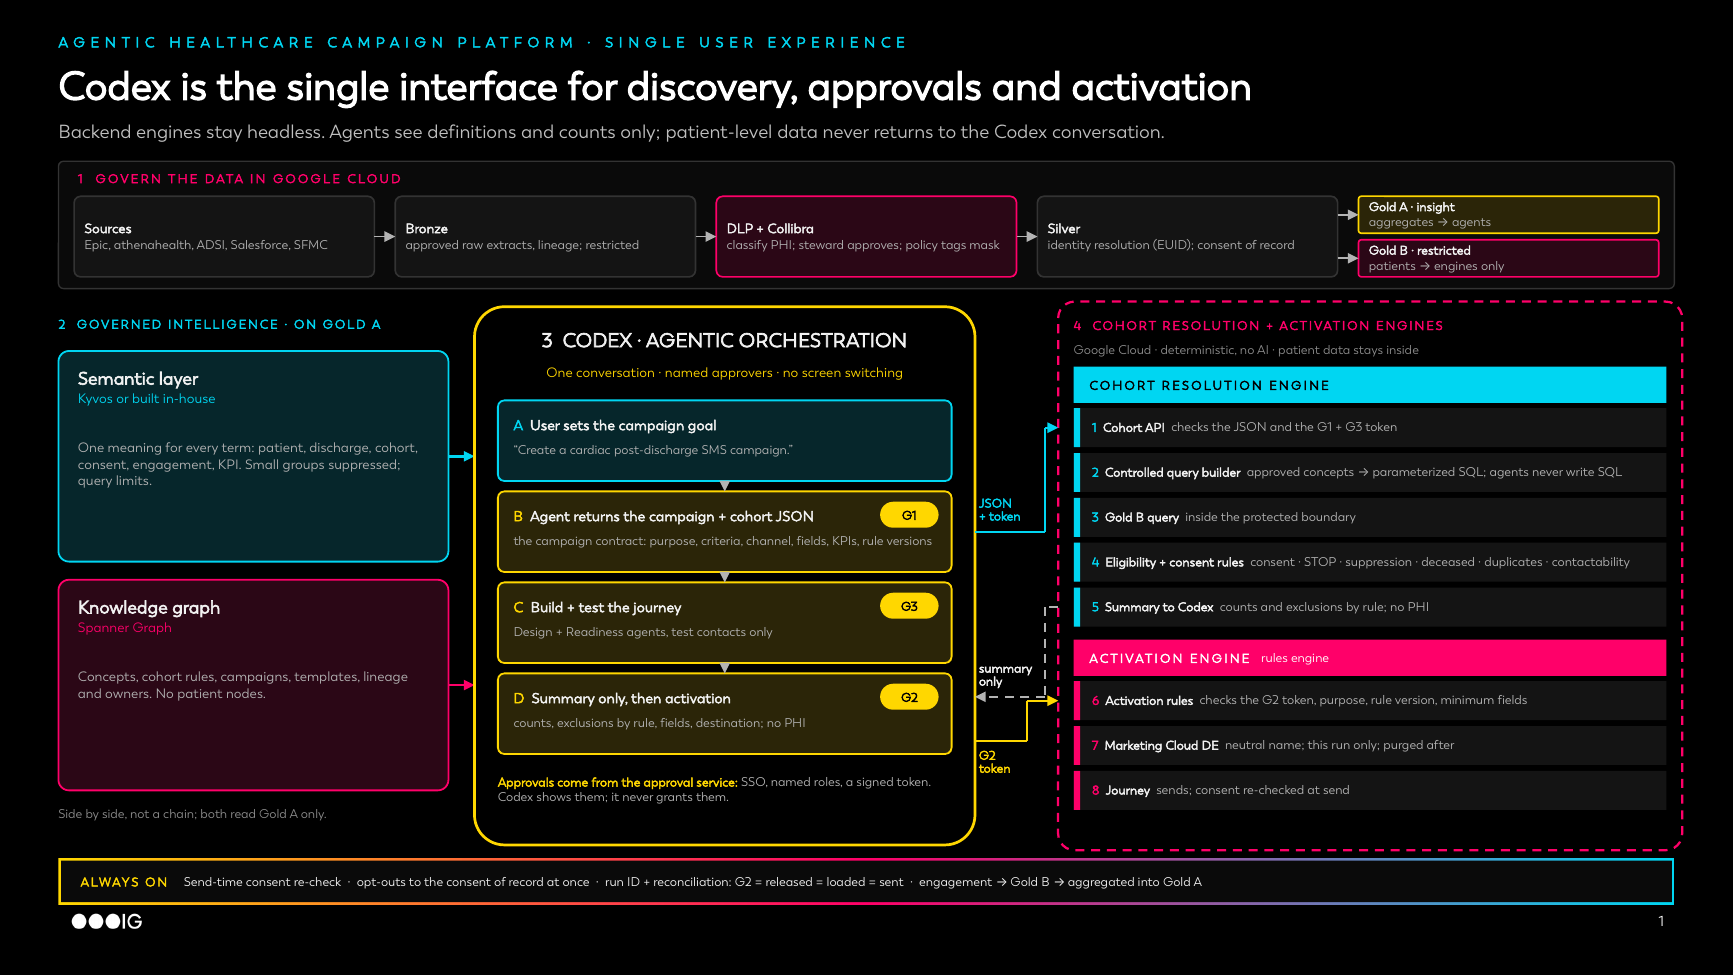
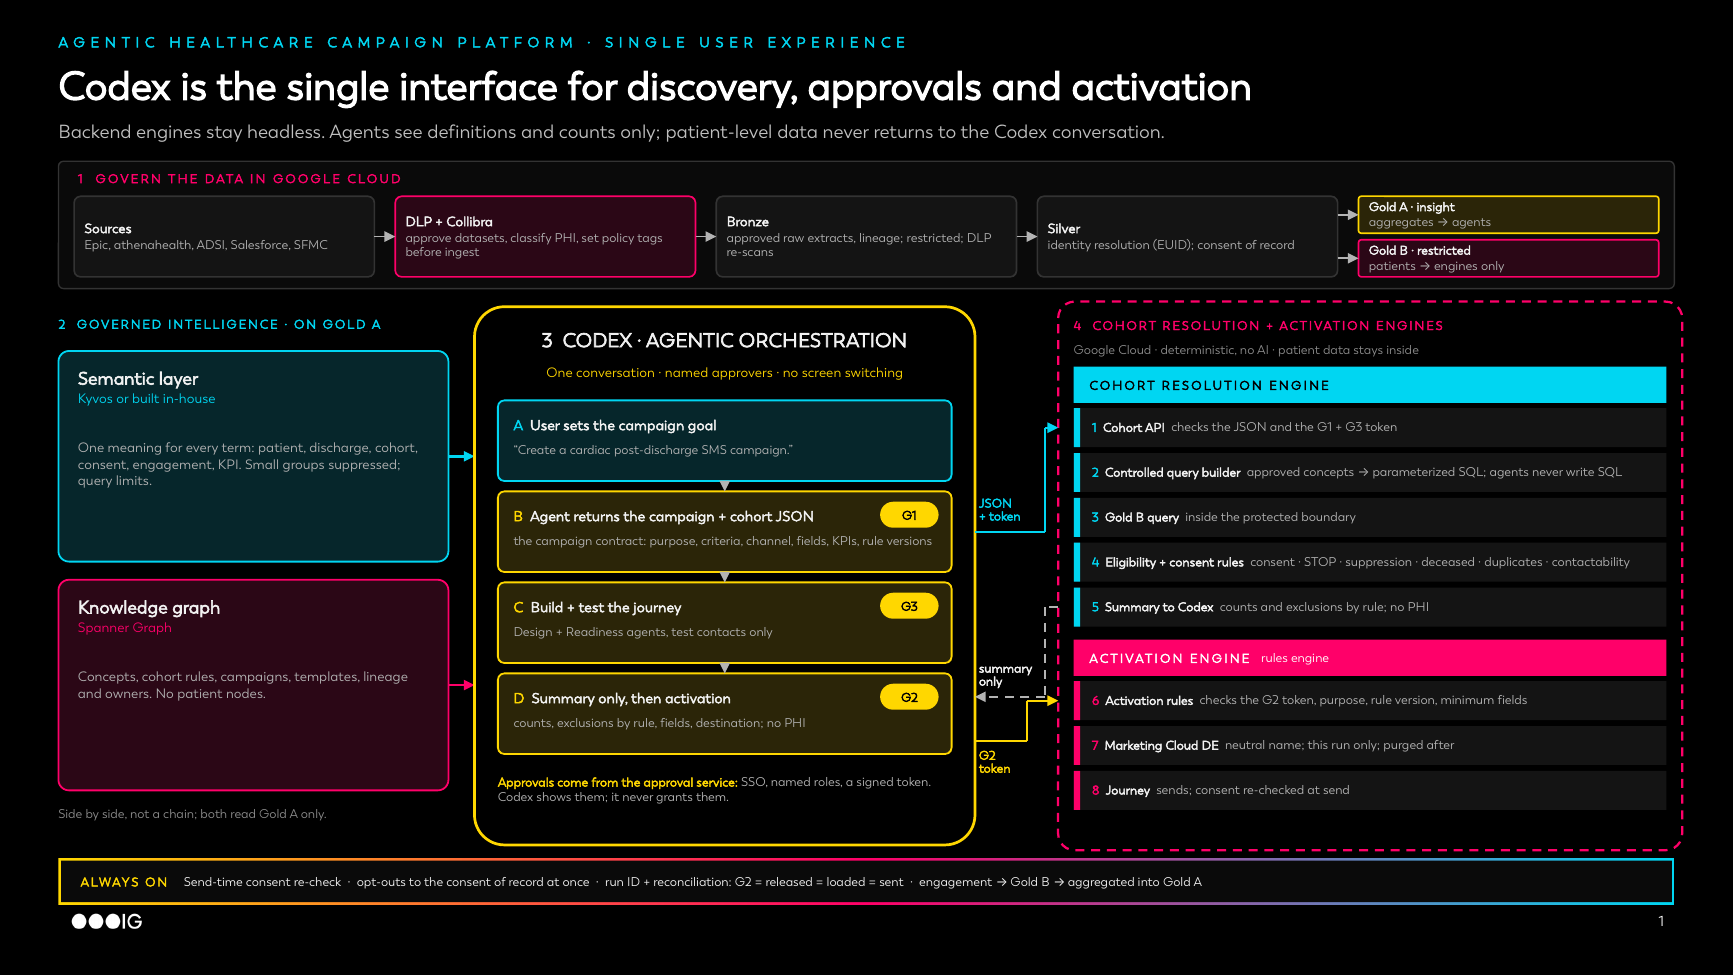
Preview: DLP + Collibra before Bronze on the Codex slide
Datasets are approved, classified and tagged before ingest; DLP re-scans
in Bronze.

Claude-Session: https://claude.ai/code/session_01Hf94kqMzSofkkrQm7kpNba

Changed region(s): [[0.218, 0.2154, 0.3737, 0.2769], [0.4048, 0.2154, 0.5917, 0.2769], [0.3737, 0.1846, 0.4048, 0.2154]]

diff --git a/poc/data_harness/architecture_v2.py b/poc/data_harness/architecture_v2.py
@@ -53,7 +53,7 @@ KEY MESSAGE
 The business user works in one place, Codex. Agents decide what campaign and what cohort, from definitions and counts. Two engines we build in Google Cloud decide exactly which patients, and release only the minimum fields to Marketing Cloud after people approve.
 
 WALK IT
-1 Govern the data in Google Cloud: sources into Bronze; DLP classifies and a Collibra steward approves the masking; Silver resolves identity across systems (EUID) and holds the consent of record; Gold splits into Gold A (insight: aggregates, small groups suppressed, for agents) and Gold B (restricted: patient, contact and consent, for the engines only).
+1 Govern the data in Google Cloud: before anything is ingested, a Collibra steward approves each dataset, DLP classifies the PHI and the policy tags are set; approved extracts land in Bronze, where DLP re-scans; Silver resolves identity across systems (EUID) and holds the consent of record; Gold splits into Gold A (insight: aggregates, small groups suppressed, for agents) and Gold B (restricted: patient, contact and consent, for the engines only).
 2 Governed intelligence, side by side on Gold A: the semantic layer (Kyvos or built in-house) gives one meaning to patient, discharge, cohort, consent, engagement and KPI; the knowledge graph in Spanner holds concepts, cohort rules, campaigns, templates, lineage and owners, with no patient nodes.
 3 Codex: the user sets the goal; the agent returns the campaign and cohort JSON, the campaign contract, approved at G1; the Design and Readiness agents build and test the journey on test contacts, approved by clinical and compliance at G3; the engines return a summary only, approved at G2. Approvals come from the approval service with named roles and a signed token; Codex shows them and never grants them.
 4 The Cohort Resolution Engine checks the JSON and the G1 + G3 token, builds a parameterized query from approved concepts (agents never write SQL), queries Gold B inside the protected boundary, applies consent, STOP, suppression, deceased, duplicate and contactability rules, and returns counts and exclusions only. After G2 the Activation Engine checks the G2 token, purpose, rule version and minimum fields and pushes the approved records to a Marketing Cloud data extension for this run only; the journey re-checks consent at send.
@@ -75,8 +75,9 @@ def slide_a(prs, layout):
     w = (12.43 - 0.24 - 4 * 0.16) / 5
     xs = [0.57 + k * (w + 0.16) for k in range(5)]
     chip(cv, xs[0], iy, w, ih, "Sources", "Epic, athenahealth, ADSI, Salesforce, SFMC", EDGE)
-    chip(cv, xs[1], iy, w, ih, "Bronze", "approved raw extracts, lineage; restricted", EDGE)
-    chip(cv, xs[2], iy, w, ih, "DLP + Collibra", "classify PHI; steward approves; policy tags mask", MAGENTA)
+    chip(cv, xs[1], iy, w, ih, "DLP + Collibra", "approve datasets, classify PHI, set policy tags before "
+         "ingest", MAGENTA)
+    chip(cv, xs[2], iy, w, ih, "Bronze", "approved raw extracts, lineage; restricted; DLP re-scans", EDGE)
     chip(cv, xs[3], iy, w, ih, "Silver", "identity resolution (EUID); consent of record", EDGE)
     gh = (ih - 0.05) / 2
     chip(cv, xs[4], iy, w, gh, "Gold A · insight", "aggregates → agents", YELLOW, 7)
